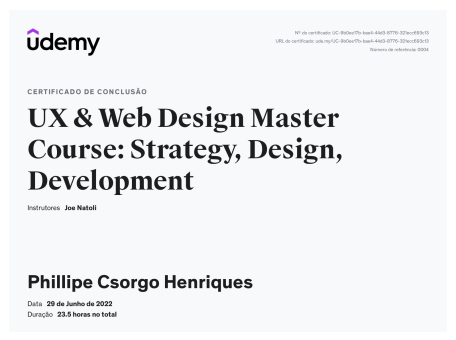
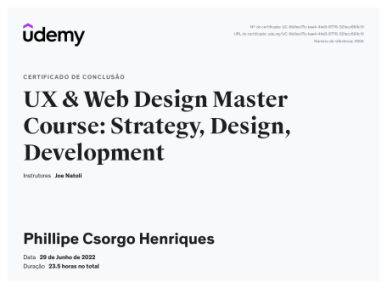
alteração de tamanhos e exclusão de legenda em certificados

diff --git a/index.html b/index.html
@@ -68,12 +68,12 @@
                         <a class="btn btn-dark btn-social mx-2" href="https://github.com/phillipehenriques"><i class="fab fa-github"></i></a>
                     </div>
                     <div class="row">
-                        <div class="col-lg-8 mx-auto text-center"><p class="large text-muted">Sou artista digital, daltônico, 
-                            e criador da <a href="#arte-digital">Daltônika</a>; uma empresa de moda 
-                            e acessórios com objetivo de conciêntizar sobre o daltonismo e incentivar o diagnóstico. Sou apaixonado 
+                        <div class="col-lg-8 mx-auto text-center"><p class="large text-muted">Sou apaixonado 
                             por computação e me encontro engajado por desenvolvimento web principalmente em front-end mas também
-                            estudo JavaScript, EcmaScript e Phyton simultâneamente, conhecimento em DOM (JavaScript) e uso de NODEJS.
-                            Possuo conhecimento avançado em vetorização (CorelDraw), estudo UX Design em paralelo por meio de cursos, 
+                            estudo JavaScript, EcmaScript e Phyton simultâneamente, com conhecimento em DOM (JavaScript) e também utilizo NODEJS.
+                            Sou artista digital, daltônico, e criador da <a href="#marca">Daltônika</a>, uma empresa de moda 
+                            e acessórios com objetivo de conciêntizar sobre o daltonismo e incentivar o diagnóstico.
+                            Possuo conhecimento avançado em vetorização (CorelDraw), estudo UI/UX Design em paralelo por meio de cursos, 
                             e utilizo Figma para prototipação e elaboração de paginas web.</p></div>
                     </div>
                 </div>
@@ -126,28 +126,40 @@
                     <h3 class="section-subheading-conhecimento text-muted">Estudar é um hobby, então vejamos o que temos por aqui:</h3>
                 </div>
                 <div class="row text-center" style="margin-top: 20vh">
-                    <div class="col-lg-6 col-sm-6 mb-4">
+                    <div class="col-lg-4 col-sm-6 mb-4">
                         <!-- Portfolio item 1-->
                         <div class="portfolio-item texto-no-centro">
                             <a class="portfolio-link"  href="https://github.com/phillipehenriques/primeiro-portf-lio/tree/main">                               
                                 <img class="zoom_out img-fluid intervalo sombra" src="assets/img/portfolio/certificado1.png" alt="..." />
                             </a>
-                            <div class="portfolio-caption">
-                                <div class="portfolio-caption-heading">Primeiro portfólio</div>
-                                <div class="portfolio-caption-subheading text-muted">Primeira landing page com HTML & CSS.</div>
-                            </div>
+                            <!-- <div class="portfolio-caption">
+                                <div class="portfolio-caption-heading">AAAAAAAAAAAAAAAH</div>
+                                <div class="portfolio-caption-subheading text-muted">AAAAAAAAAAAAAAAH</div>
+                            </div> -->
                         </div>
                     </div>
-                    <div class="col-lg-6 col-sm-6 mb-4">
+                    <div class="col-lg-4 col-sm-6 mb-4">
                         <!-- Portfolio item 1-->
                         <div class="portfolio-item texto-no-centro">
                             <a class="portfolio-link"  href="https://github.com/phillipehenriques/primeiro-portf-lio/tree/main">                               
-                                <img class="zoom_out img-fluid intervalo sombra" src="assets/img/portfolio/pagina1.png" alt="..." />
+                                <img class="zoom_out img-fluid intervalo sombra" src="assets/img/portfolio/certificado3.png" alt="..." />
                             </a>
-                            <div class="portfolio-caption">
-                                <div class="portfolio-caption-heading">Primeiro portfólio</div>
-                                <div class="portfolio-caption-subheading text-muted">Primeira landing page com HTML & CSS.</div>
-                            </div>
+                            <!-- <div class="portfolio-caption">
+                                <div class="portfolio-caption-heading">AAAAAAAAAAAAAAAH</div>
+                                <div class="portfolio-caption-subheading text-muted">AAAAAAAAAAAAAAAH</div>
+                            </div> -->
+                        </div>
+                    </div>
+                    <div class="col-lg-4 col-sm-6 mb-4">
+                        <!-- Portfolio item 1-->
+                        <div class="portfolio-item texto-no-centro">
+                            <a class="portfolio-link"  href="https://github.com/phillipehenriques/primeiro-portf-lio/tree/main">                               
+                                <img class="zoom_out img-fluid intervalo sombra" src="assets/img/portfolio/certificado2.png" alt="..." />
+                            </a>
+                            <!-- <div class="portfolio-caption">
+                                <div class="portfolio-caption-heading">AAAAAAAAAAAAAAAH</div>
+                                <div class="portfolio-caption-subheading text-muted">AAAAAAAAAAAAAAAH</div>
+                            </div> -->
                         </div>
                     </div>                   
                 </div>
@@ -156,7 +168,7 @@
 
         <!-- MEUS PROJETOS -->
 
-        <section class="page-section bg-white" id="projetos">
+        <section class="page-section bg-light" id="projetos">
             <div class="container">
                 <div class="text-center">
                     <h2 class="section-heading text-uppercase">MEUS PROJETOS WEB</h2>
@@ -190,7 +202,7 @@
                     <div class="col-lg-4 col-sm-6 mb-4">
                         <!-- Portfolio item 3-->
                         <div class="portfolio-item texto-no-centro">
-                            <a class="portfolio-link" data-bs-toggle="modal" href="https://github.com/phillipehenriques/Grafico-de-estudo">
+                            <a class="portfolio-link" href="https://github.com/phillipehenriques/Grafico-de-estudo"> <!-- << colocar dentro da tag isso > data-bs-toggle="modal"-->
                                 <img class="zoom_out img-fluid intervalo sombra" src="assets/img/portfolio/pagina3.png" alt="..." />
                             </a>
                             <div class="portfolio-caption">
@@ -202,7 +214,7 @@
                     <div class="col-lg-4 col-sm-6 mb-4">
                         <!-- Portfolio item 4-->
                         <div class="portfolio-item texto-no-centro">
-                            <a class="portfolio-link" data-bs-toggle="modal" href="https://github.com/phillipehenriques/WebSite-Daltonika">  <!-------------- #portfolioModal4 --------------> 
+                            <a class="portfolio-link" href="https://github.com/phillipehenriques/WebSite-Daltonika">  <!-------------- #portfolioModal4 --------------> 
                                 <img class="zoom_out img-fluid intervalo sombra" src="assets/img/portfolio/pagina4.png" alt="..." />
                             </a>
                             <div class="portfolio-caption">
@@ -385,7 +397,7 @@
 
         <!-- APP -->
         
-        <section class="page-section bg-light" id="app">
+        <section class="page-section bg-white" id="app">
             <div class="container">
                 <div class="mais-conhecimento text-center">
                     <h2 class="section-heading text-uppercase">PROJETO ANDROID</h2>
@@ -428,7 +440,7 @@
 
         <!-- Causa Social -->
 
-        <section class="page-section bg-white" id="marca">
+        <section class="page-section bg-light" id="marca">
             <div class="container">
                 <div class="mais-conhecimento text-center">
                     <h2 class="section-heading text-uppercase">MINHA MARCA!</h2>
@@ -436,7 +448,7 @@
                 </div>
                 <div class="col-lg-12" id="flex">
                     <div class="flex-app team-member" id="flex">
-                        <img  class="classeIMG mx-auto rounded-circle" src="assets/img/portfolio/daltonika.png" alt="..." />                   
+                        <img class="classeIMG mx-auto rounded-circle" src="assets/img/portfolio/daltonika.png" alt="..." />                   
                     </div>                   
                 </div>
             
@@ -472,7 +484,7 @@
 
         <!-- LOJA -->
 
-        <section class="page-section bg-light" id="causa-social">
+        <section class="page-section bg-white" id="produtos">
             <div class="container">
                 <div class="mais-conhecimento text-center">
                     <h2 class="section-heading text-uppercase">Produtos</h2>

diff --git a/css/styles.css b/css/styles.css
@@ -10975,7 +10975,7 @@ p {
 
 .flex-app {
   background-color: none;
-  height: 15rem;
+  height: 20rem;
   width: 100%;
 }
 
@@ -11006,6 +11006,10 @@ p {
 }
 .classeIMG:hover { 
   transform: scale(1.1); 
+}
+
+.headbutt {
+  margin-top: none;
 }
 
 .centro {
